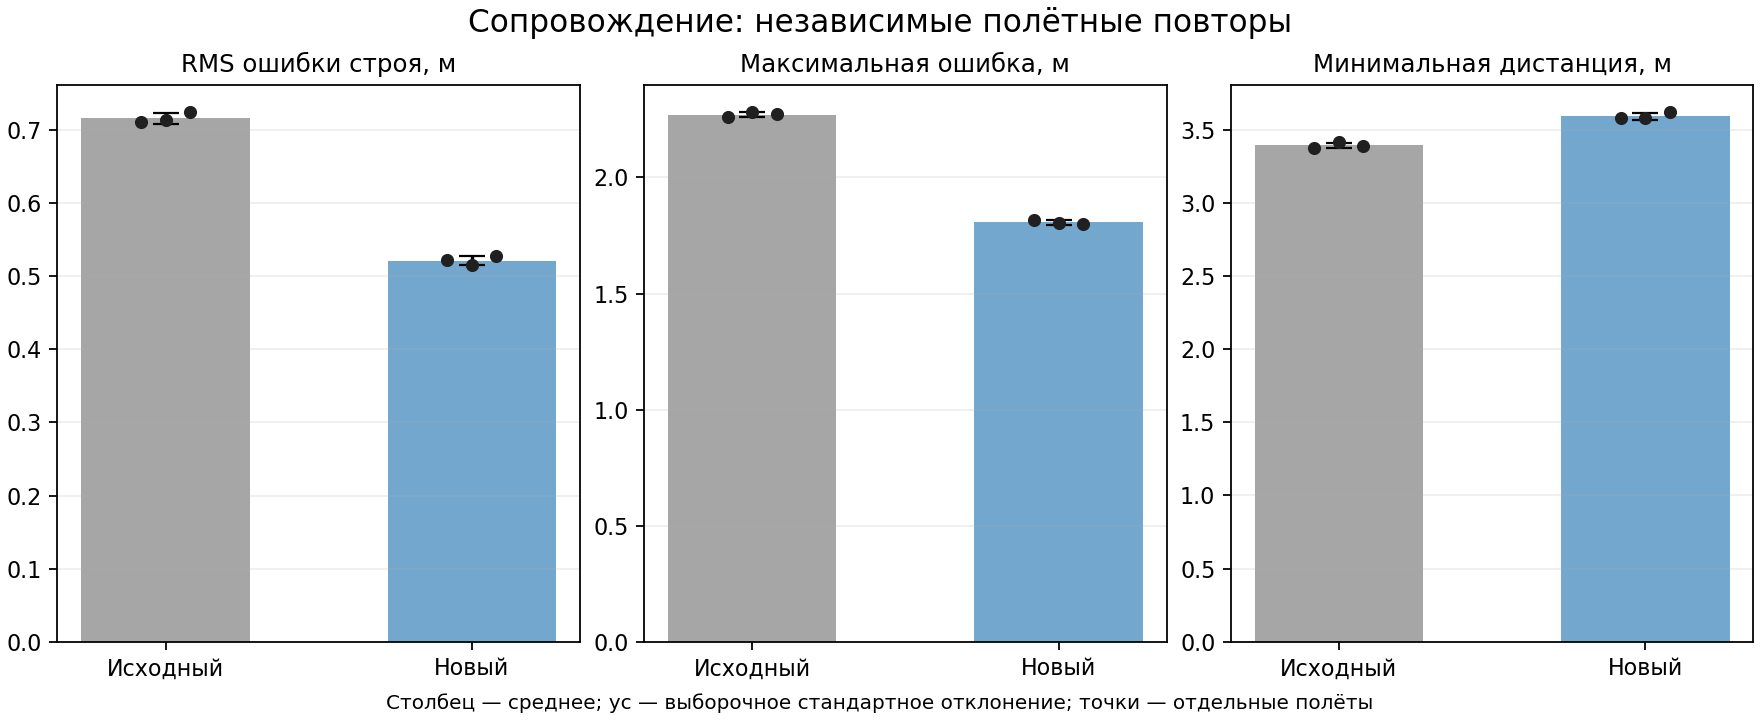
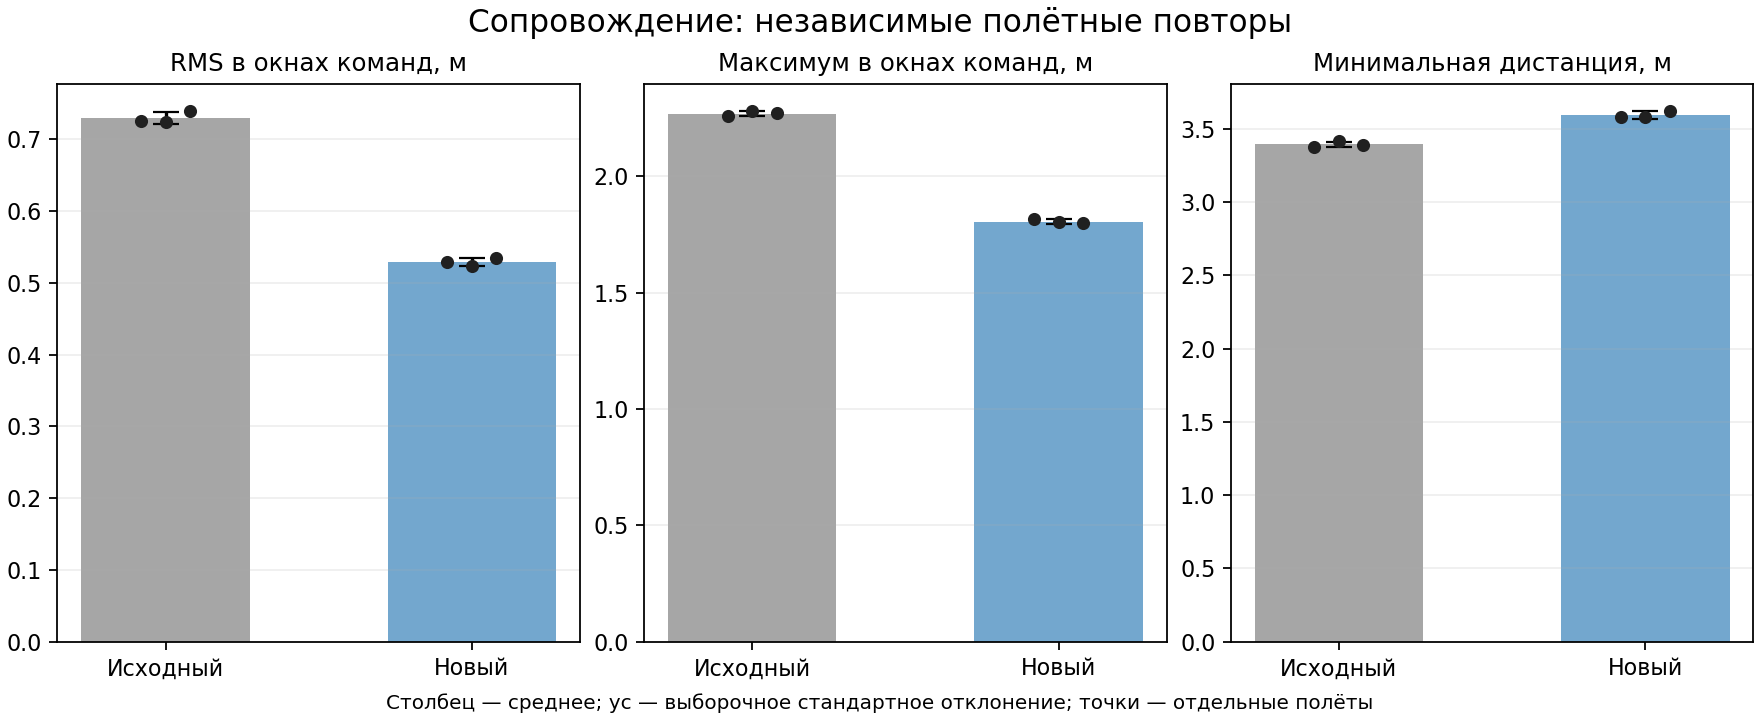
test: сравнить сопровождение в одинаковых окнах команд

diff --git a/scripts/compare_repeats.py b/scripts/compare_repeats.py
@@ -5,11 +5,13 @@ import argparse
 import csv
 import hashlib
 import json
+import math
 from pathlib import Path
 import re
 import statistics
 
 from analyze_scenario import analyze
+from evaluation.metrics import summarize
 
 
 def distribution(values):
@@ -19,7 +21,34 @@ def distribution(values):
                 min=min(values) if values else None, max=max(values) if values else None)
 
 
-def read_run(directory):
+def compact_transition(item):
+    """Полные позы/пики остаются в исходном transitions.json, здесь сравнимые метрики."""
+    keys = ('number', 'formation', 'scale', 'target_duration_s', 'threshold_m',
+            'required_tail_s', 'samples', 'matched_samples', 'settling_duration_s',
+            'post_target_settling_s', 'unavailable')
+    result = {key: item[key] for key in keys if key in item}
+    overshoots = [follower['projection']['overshoot_m']
+                  for follower in item.get('followers', {}).values() if follower.get('projection')]
+    result['max_projected_overshoot_m'] = max(overshoots, default=None)
+    return result
+
+
+def fixed_profile_summary(windows, rows, duration):
+    starts = [window['start'] for window in windows if window['kind'] == 'manual_input']
+    selected = [row for row in rows if any(start <= row['timestamp'] < start+duration for start in starts)]
+    if not selected:
+        return None
+    metrics = summarize(selected, include_phases=False)
+    result = {key: metrics[key] for key in ('rows', 'formation_error_m',
+              'relative_stale_share', 'formation_missing_share')}
+    result['min_pair_distance_m'] = metrics['min_pair_distance_m']['min']
+    result['window_duration_s'] = duration
+    result['window_count'] = len(starts)
+    result['controller_active_share'] = sum(row['controller_active'] for row in selected)/len(selected)
+    return result
+
+
+def read_run(directory, manual_window_s=24.):
     directory = Path(directory)
     configuration = directory/'configuration.json'
     flight = directory/'flight' if (directory/'flight').is_dir() else directory
@@ -49,7 +78,9 @@ def read_run(directory):
                 formation_missing_share=active['formation_missing_share'],
                 localization_missing_share=active['localization_missing_share'],
                 manual_windows=speeds, confirmed_zero_delay_s=delay,
-                transitions=json.loads(transitions_path.read_text())['transitions']
+                fixed_manual_profiles=fixed_profile_summary(windows, rows, manual_window_s),
+                transitions=[compact_transition(item) for item in
+                             json.loads(transitions_path.read_text())['transitions']]
                     if transitions_path.exists() else None)
 
 
@@ -65,6 +96,13 @@ def summarize_runs(runs):
                 min_pair_distance_m=distribution([run['min_pair_distance_m'] for run in runs]),
                 localization_rms_m=distribution([run['localization']['rms'] for run in runs]),
                 confirmed_zero_delay_s=distribution([run['confirmed_zero_delay_s'] for run in runs]))
+    if all(run.get('fixed_manual_profiles') is not None for run in runs):
+        result['fixed_profile_rms_m'] = distribution([
+            run['fixed_manual_profiles']['formation_error_m']['rms'] for run in runs])
+        result['fixed_profile_max_m'] = distribution([
+            run['fixed_manual_profiles']['formation_error_m']['max'] for run in runs])
+        result['fixed_profile_min_pair_distance_m'] = distribution([
+            run['fixed_manual_profiles']['min_pair_distance_m'] for run in runs])
     if all(run.get('transitions') is not None for run in runs):
         keys = [[(item['number'], item['formation'], item['scale']) for item in run['transitions']]
                 for run in runs]
@@ -76,6 +114,8 @@ def summarize_runs(runs):
             durations = [item.get('settling_duration_s') for item in transitions]
             result['transition_summary'].append(dict(number=number, formation=formation, scale=scale,
                 settling_duration_s=distribution(durations),
+                max_projected_overshoot_m=distribution([item.get('max_projected_overshoot_m')
+                                                       for item in transitions]),
                 unsettled_runs=sum(value is None for value in durations)))
     return result
 
@@ -86,9 +126,12 @@ def main():
     parser.add_argument('--candidate', type=Path, nargs='+', required=True)
     parser.add_argument('--reformations', type=Path, nargs='*', default=[])
     parser.add_argument('--output', type=Path, required=True)
+    parser.add_argument('--manual-window', type=float, default=24., help='Длина одинакового окна команд, с')
     args = parser.parse_args()
-    baseline = summarize_runs([read_run(path) for path in args.baseline])
-    candidate = summarize_runs([read_run(path) for path in args.candidate])
+    if not math.isfinite(args.manual_window) or args.manual_window <= 0:
+        parser.error('Длина окна должна быть конечной положительной величиной')
+    baseline = summarize_runs([read_run(path, args.manual_window) for path in args.baseline])
+    candidate = summarize_runs([read_run(path, args.manual_window) for path in args.candidate])
     if baseline['runs'][0]['scenario'] != candidate['runs'][0]['scenario']:
         parser.error('Для сравнения нужны одинаковые сценарии')
     report = dict(baseline=baseline, candidate=candidate,
@@ -97,6 +140,10 @@ def main():
     for metric in ('formation_rms_m', 'formation_max_m'):
         old, new = baseline[metric]['mean'], candidate[metric]['mean']
         report[metric+'_reduction_percent'] = 100*(old-new)/old if old else None
+    if 'fixed_profile_rms_m' in baseline and 'fixed_profile_rms_m' in candidate:
+        for metric in ('fixed_profile_rms_m', 'fixed_profile_max_m'):
+            old, new = baseline[metric]['mean'], candidate[metric]['mean']
+            report[metric+'_reduction_percent'] = 100*(old-new)/old if old else None
     if args.reformations:
         report['reformations'] = summarize_runs([read_run(path) for path in args.reformations])
     with args.output.open('x') as stream:

diff --git a/scripts/plot_repeats.py b/scripts/plot_repeats.py
@@ -17,6 +17,7 @@ def main():
     parser.add_argument('report', type=Path)
     parser.add_argument('--output', type=Path, required=True)
     parser.add_argument('--transitions-output', type=Path)
+    parser.add_argument('--fixed-windows', action='store_true', help='Сравнивать одинаковые окна команд')
     args = parser.parse_args()
     data = json.loads(args.report.read_text())
     groups = [data['baseline'], data['candidate']]
@@ -25,6 +26,15 @@ def main():
     metrics = [('formation_rms_m', 'RMS ошибки строя, м', lambda r: r['formation']['rms']),
                ('formation_max_m', 'Максимальная ошибка, м', lambda r: r['formation']['max']),
                ('min_pair_distance_m', 'Минимальная дистанция, м', lambda r: r['min_pair_distance_m'])]
+    if args.fixed_windows:
+        metrics = [('fixed_profile_rms_m', 'RMS в окнах команд, м',
+                    lambda r: r['fixed_manual_profiles']['formation_error_m']['rms']),
+                   ('fixed_profile_max_m', 'Максимум в окнах команд, м',
+                    lambda r: r['fixed_manual_profiles']['formation_error_m']['max']),
+                   ('fixed_profile_min_pair_distance_m', 'Минимальная дистанция, м',
+                    lambda r: r['fixed_manual_profiles']['min_pair_distance_m'])]
+        if any(key not in group for group in groups for key, title, extract in metrics):
+            parser.error('В отчёте нет метрик одинаковых окон команд')
     for axis, (metric, title, extract) in zip(axes, metrics):
         for index, group in enumerate(groups):
             stats = group[metric]
@@ -46,7 +56,7 @@ def main():
         transitions = group['transition_summary']
         fig, axis = plt.subplots(figsize=(10, 5), layout='constrained')
         names = {'line': 'Линия', 'column': 'Колонна', 'wedge': 'Клин'}
-        labels = [f"{item['number']}. {names[item['formation']]}\nмасштаб {item['scale']:.2g}"
+        labels = [f"{item['number']}. {names[item['formation']]}\nмасштаб {item['scale']:.3g}"
                   for item in transitions]
         for index, item in enumerate(transitions):
             stats = item['settling_duration_s']

diff --git a/scripts/test/test_compare_repeats.py b/scripts/test/test_compare_repeats.py
@@ -40,3 +40,26 @@ def test_failed_and_unsettled_runs_remain_visible(compare):
 def test_different_parameters_cannot_be_reported_as_same_series(compare):
     with pytest.raises(ValueError, match='параметры'):
         compare.summarize_runs([run(), run(fingerprint='other')])
+
+
+def test_compact_transition_preserves_unavailable_and_largest_overshoot(compare):
+    result = compare.compact_transition(dict(number=1, formation='line', scale=1.,
+        followers={'1': dict(projection=dict(overshoot_m=.2)),
+                   '2': dict(projection=dict(overshoot_m=.4)), '3': dict(projection=None)}))
+    assert result['max_projected_overshoot_m'] == .4
+    missing = compare.compact_transition(dict(number=1, unavailable='incomplete_target_history'))
+    assert missing['unavailable'] == 'incomplete_target_history'
+    assert missing['max_projected_overshoot_m'] is None
+
+
+def test_equal_command_windows_exclude_settling_but_keep_inactive_errors(compare):
+    rows = []
+    for stamp, error, active in [(9., 100., 1), (10., .2, 1), (11., .4, 0), (12., 99., 1)]:
+        rows.append(dict(timestamp=stamp, target_id=1, formation_error_m=error,
+                         localization_error_m=.04, min_pair_distance_m=3., relative_stale=0,
+                         leader_state_stale=0, gt_missing=0, formation_missing=0,
+                         localization_missing=0, controller_active=active))
+    result = compare.fixed_profile_summary([dict(kind='manual_input', start=10.)], rows, 2.)
+    assert result['rows'] == 2
+    assert result['formation_error_m']['rms'] == pytest.approx(.1**.5)
+    assert result['controller_active_share'] == .5

diff --git a/docs/following_repeatability.md b/docs/following_repeatability.md
@@ -48,6 +48,8 @@
 время установления и перелёт. Время установления рассчитывается по эталону
 в полосе 0,3 м с удержанием одну секунду, а не только по сообщению сценария
 с более широким порогом. Все неудачные опыты тоже сохраняются.
+Установлением считается начало последнего непрерывного участка в полосе,
+сохраняющегося до конца окна наблюдения и длящегося не меньше секунды.
 
 Три повторения показывают разброс этих опытов; они не дают гарантии
 устойчивости при любых траекториях, сетевых задержках или начальных условиях.
@@ -85,6 +87,7 @@ python3 scripts/plot_repeats.py log/СРАВНЕНИЕ.json \
 
 Точки показывают каждый опыт, столбцы — среднее, отрезки — выборочное
 стандартное отклонение. Пропущенное установление не заменяется нулевым временем.
+Ключ `--fixed-windows` выбирает для графика одинаковые окна команд S2.
 
 Разные параметры или мир внутри одной серии отклоняются. Неудачный
 опыт остаётся в отчёте, а не исключается из среднего. Отсутствие
@@ -131,3 +134,16 @@ python3 scripts/plot_repeats.py log/СРАВНЕНИЕ.json \
 и [график с каждым полётом](../examples/results/following_repeatability.png).
 Переходные ошибки до 1,818 м остаются: улучшение не означает точности
 0,4 м при любых манёврах. Проверка перестроений выполняется отдельно.
+
+Поскольку новый вариант быстрее успокаивается, длительность завершающего
+удержания у него меньше. Для независимой от этого сравнимости дополнительно
+выбраны ровно 24 секунды после начала каждого из трёх профилей команд:
+12 секунд прямого движения и три четырёхсекундных манёвра. Во всех шести
+полётах это ровно 2160 строк (72 секунды × 10 выборок/с × 3 ведомых).
+Управление в этих окнах активно на 100%, пропусков измерений нет.
+
+В одинаковых окнах RMS составляет 0,730 ± 0,009 м до изменения и
+0,529 ± 0,006 м после — снижение на 27,5%. Максимумы совпадают с таблицей
+выше. График использует именно эти одинаковые окна; исходные метрики всего
+активного управления сохранены в JSON отдельно. Конец ожидания не удлиняется
+и не обрезается по величине ошибки для получения лучшего результата.
